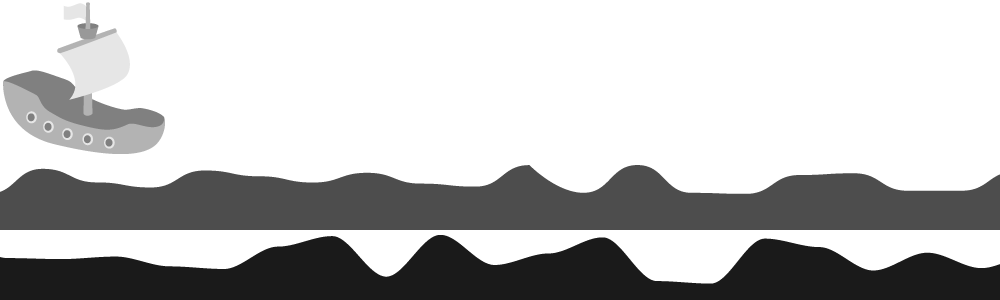
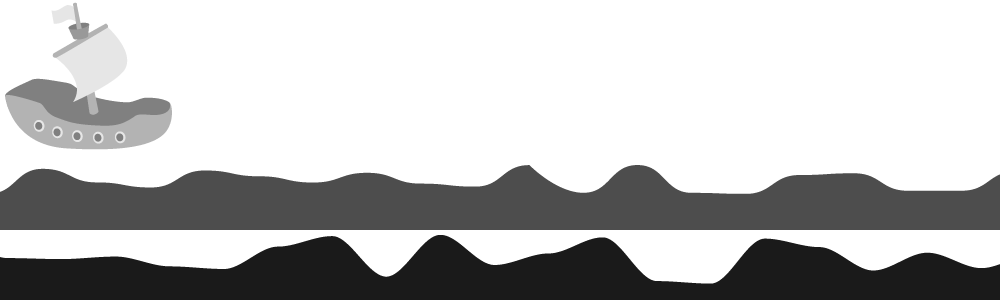
Rotated pirate ship imagery for cleaner display and CSS. Updated META Description.

diff --git a/public/assets/css/master.css b/public/assets/css/master.css
@@ -474,9 +474,6 @@ section.labsec :last-child {
 	height: 160px;
 	left: 65px;
 	top: 130px;
-	-webkit-transform: rotate(-10deg);
-	-moz-transform: rotate(-10deg);
-	transform: rotate(-10deg);
 	background: url(/assets/i/pirate-navigator-fg.png) no-repeat 0 0; }
 
 /* Gray background water */
@@ -498,9 +495,9 @@ section.labsec :last-child {
 .pirate-navigator figure a:hover span.d {
 	left: 230px;
 	top: 125px;
-	-webkit-transform: rotate(-20deg);
-	-moz-transform: rotate(-20deg);
-	transform: rotate(-20deg); }
+	-webkit-transform: rotate(-10deg);
+	-moz-transform: rotate(-10deg);
+	transform: rotate(-10deg); }
 	
 .pirate-navigator figure a:hover span.e {
 	background-position: -180px -160px; }
